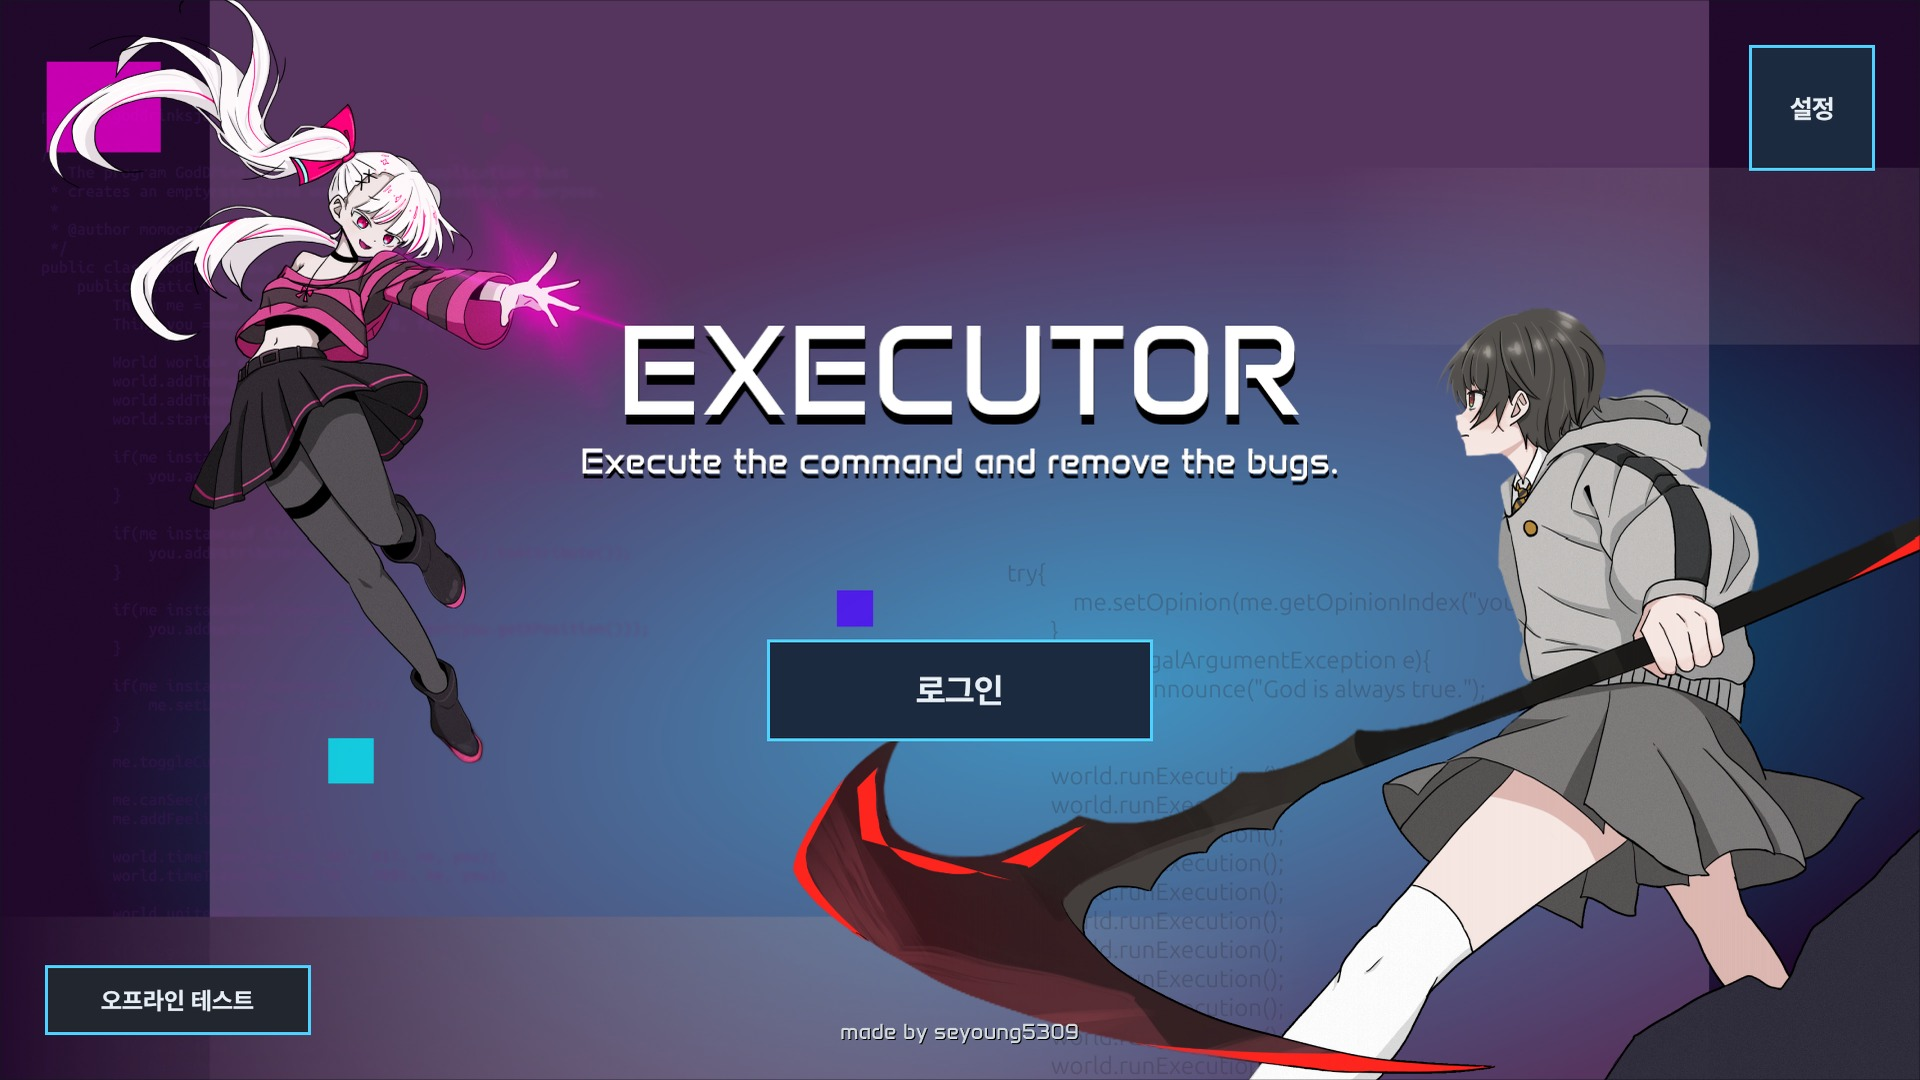
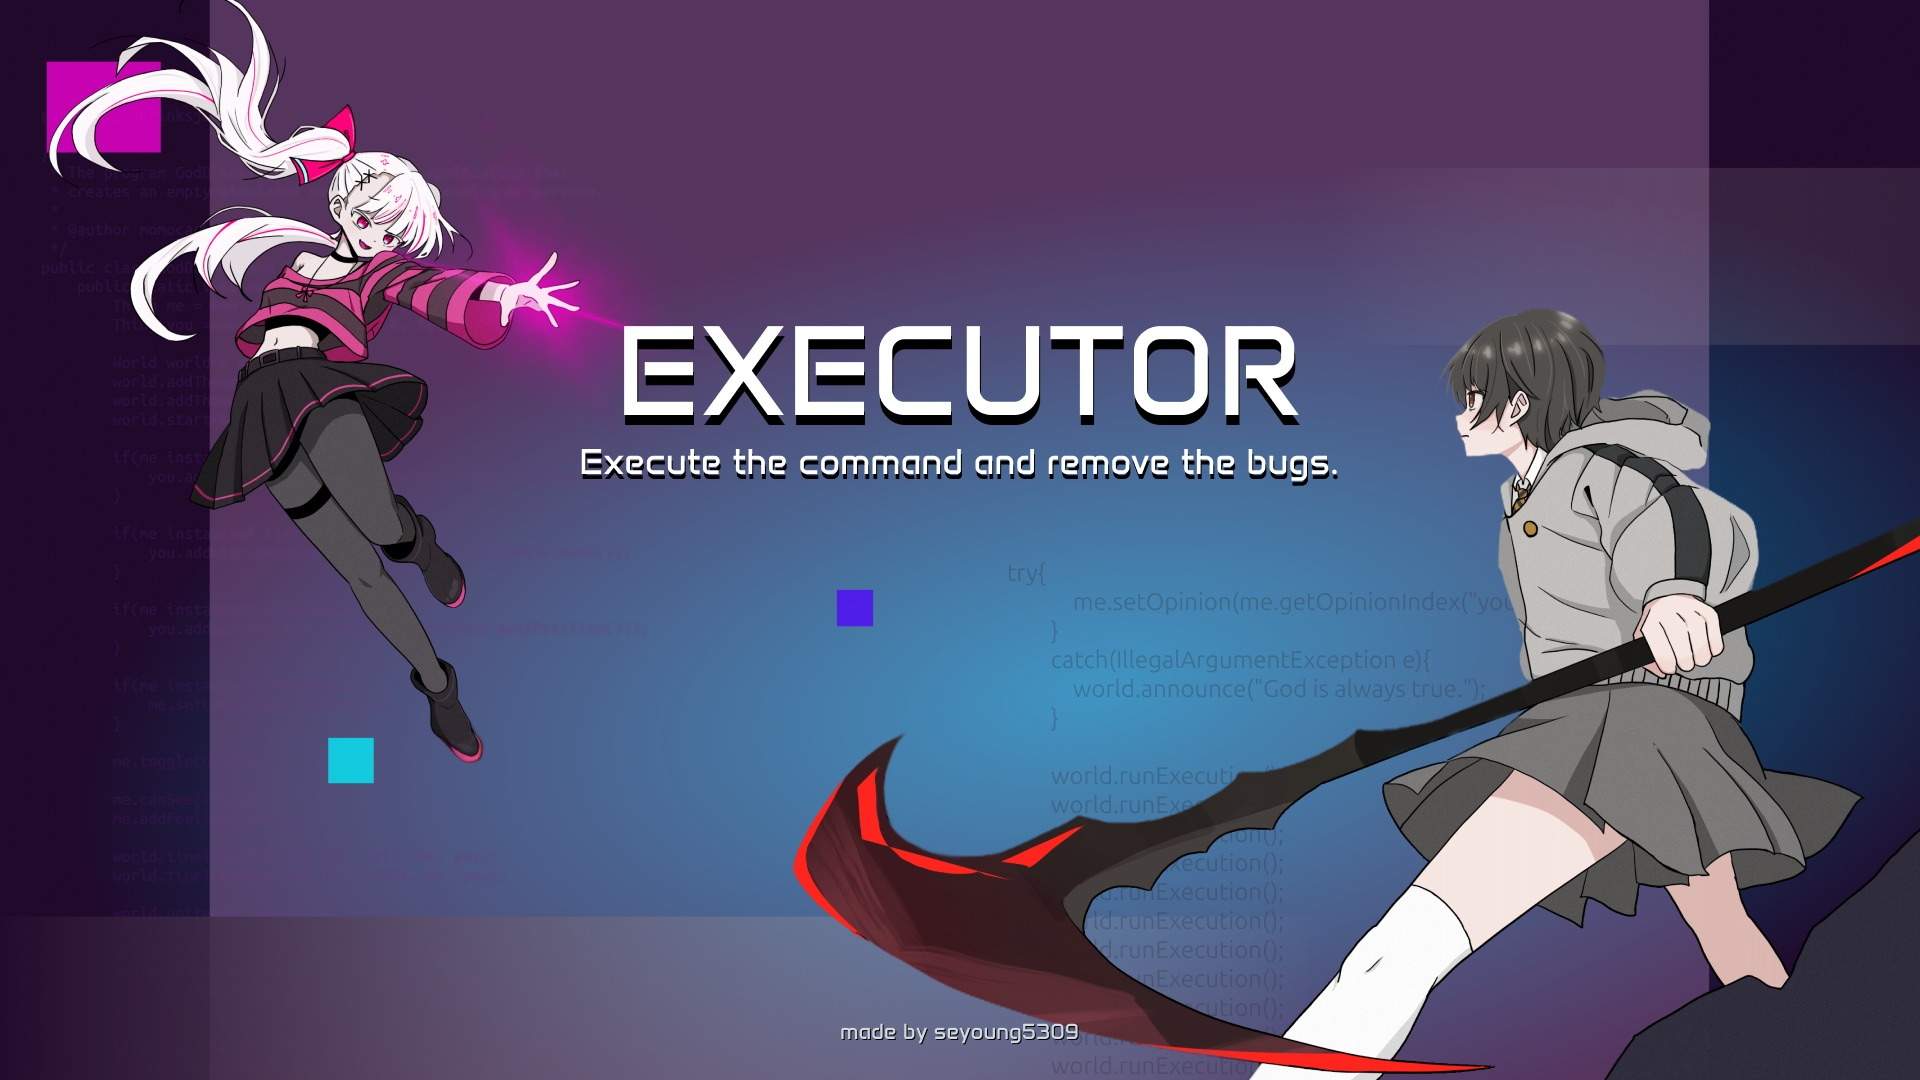
fix: 시작 화면 그림을 버튼 없는 원본 배경 + 로고로 다시 만듦 (시안 그림에 예전 버튼이 박혀 있던 문제)

diff --git a/docs/art-guide.md b/docs/art-guide.md
@@ -136,7 +136,7 @@ Portraits/
 
 | 파일 | 그릴 크기 | 화면에서 | 메모 |
 | --- | --- | --- | --- |
-| `Illustrations/title_art.jpg` | 1920 × 1080 | 시작(잠금) 화면 전체를 덮는다 | 시안 그대로 로고(EXECUTOR)·영문 부제·made by까지 그려 있다. 가운데 아래(로그인 버튼 자리 위에서 418~580)와 왼쪽 아래·오른쪽 위(버튼 자리)는 비워 둔다 |
+| `Illustrations/title_art.jpg` | 1920 × 1080 | 시작(잠금) 화면 전체를 덮는다 | 로고(EXECUTOR)·영문 부제·made by까지 한 장. **버튼은 그리지 않는다** (시안의 title_art_1920.jpg는 예전 게임 화면을 찍은 것이라 로그인·오프라인·설정 버튼이 박혀 있어 쓰지 않고, 원본 배경에 로고를 (579, 292)에 얹어 만들었다). 가운데 아래(로그인 버튼 자리 위에서 418~580)와 왼쪽 아래·오른쪽 위(버튼 자리)는 비워 둔다 |
 | `Illustrations/main_desktop.jpg` | 1920 × 1080 | 메인 화면 전체 | 흐린 학교 사진 + 어둡게 + 균열·글리치까지 한 장에 그린 것 (시안 Main.html 배경을 1.5배로 찍음) |
 | `Guidebook/{이름}.png` | 512 × 512 | 도감 상세 왼쪽 360 × 360 상자 (안쪽 344 × 344), **비율 유지** | 정사각형 권장 |
 
